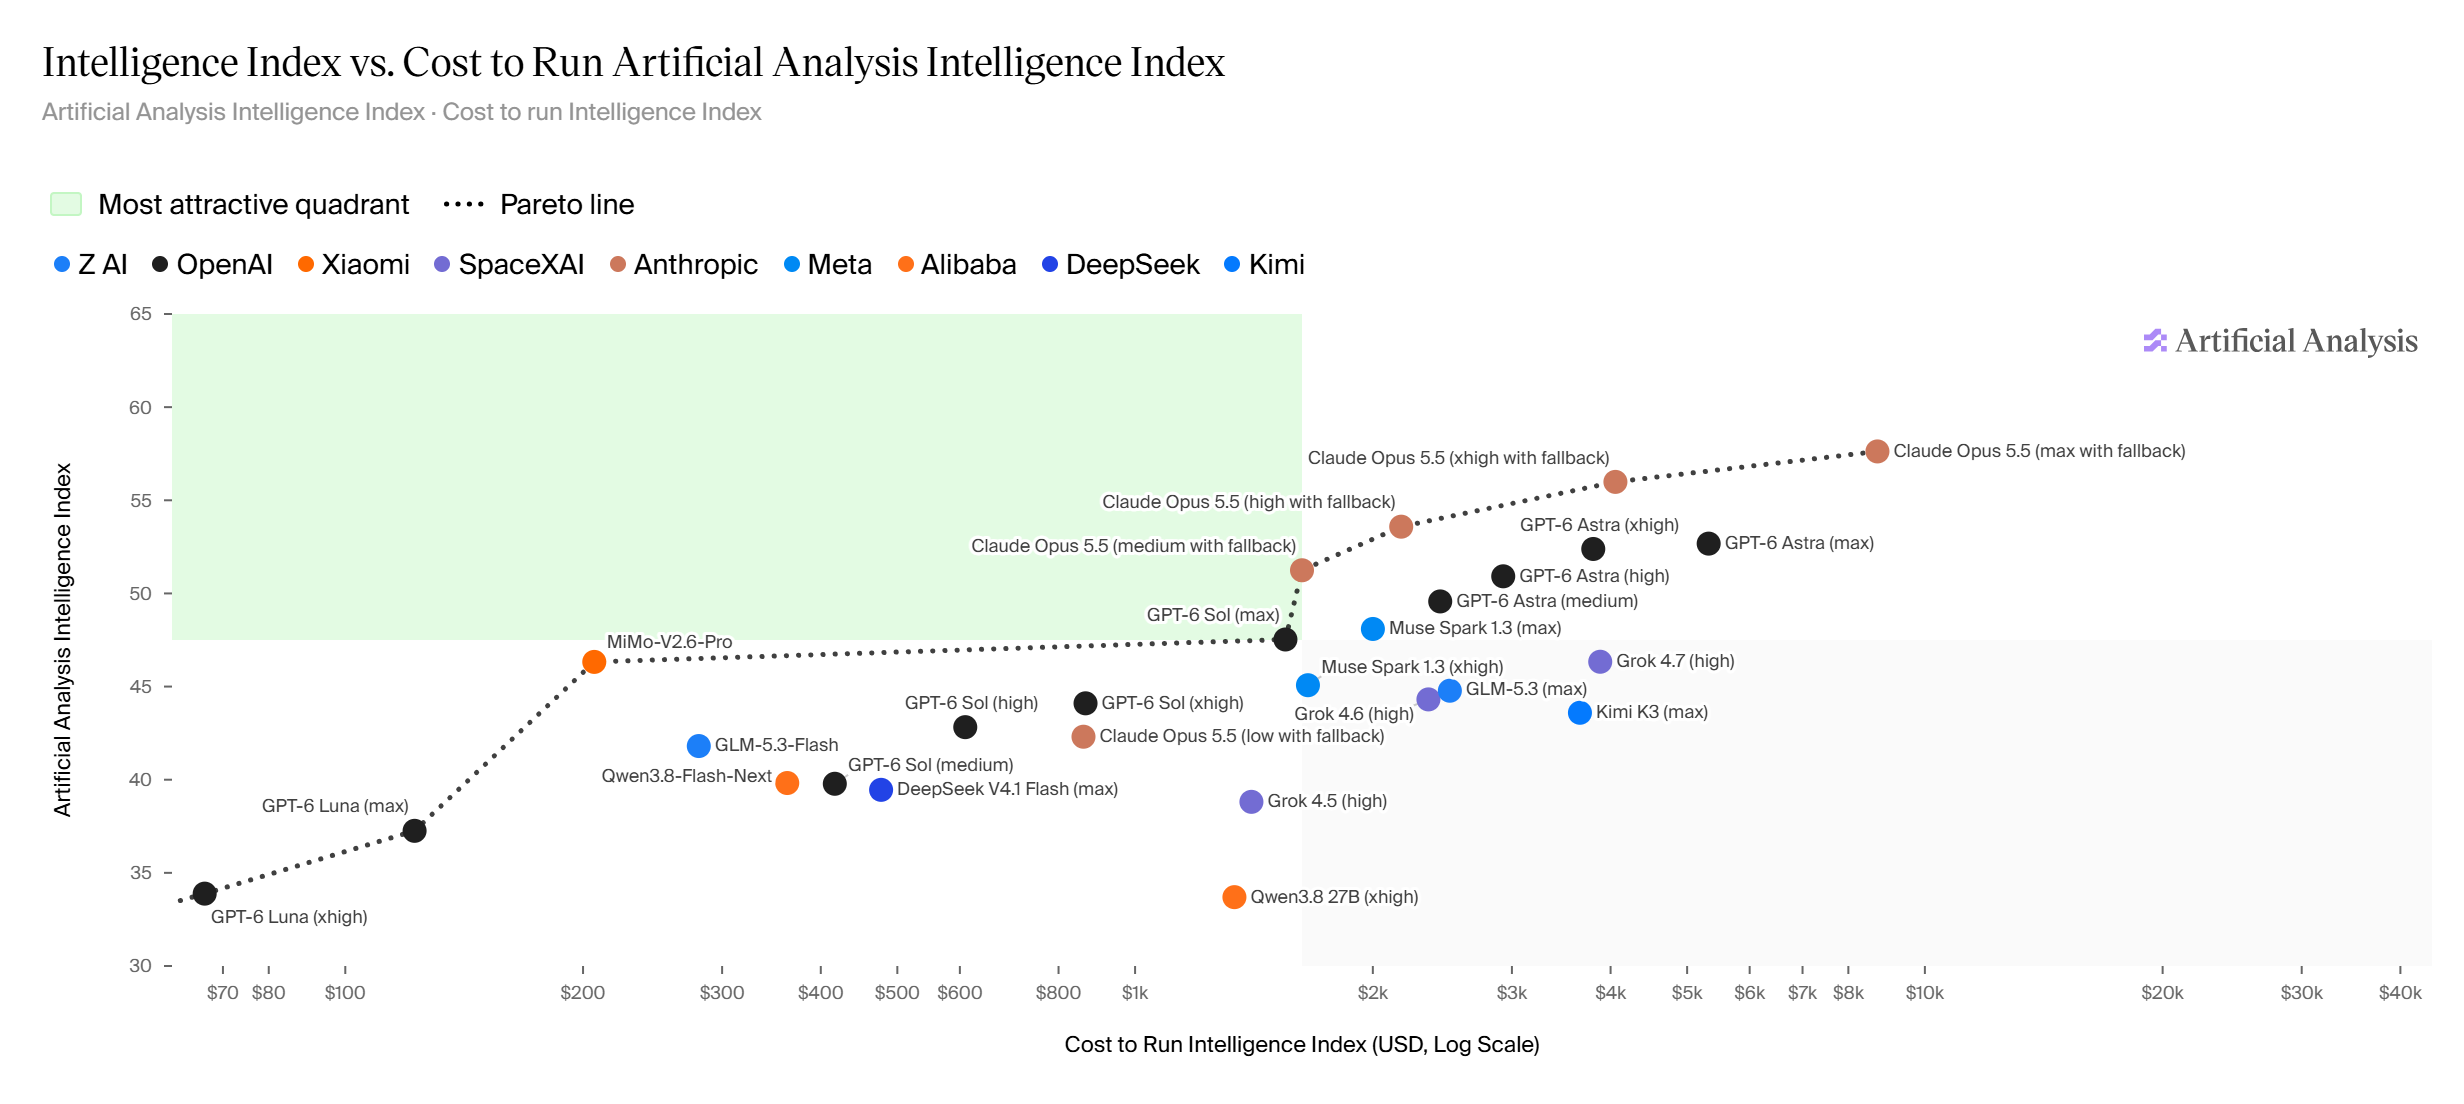
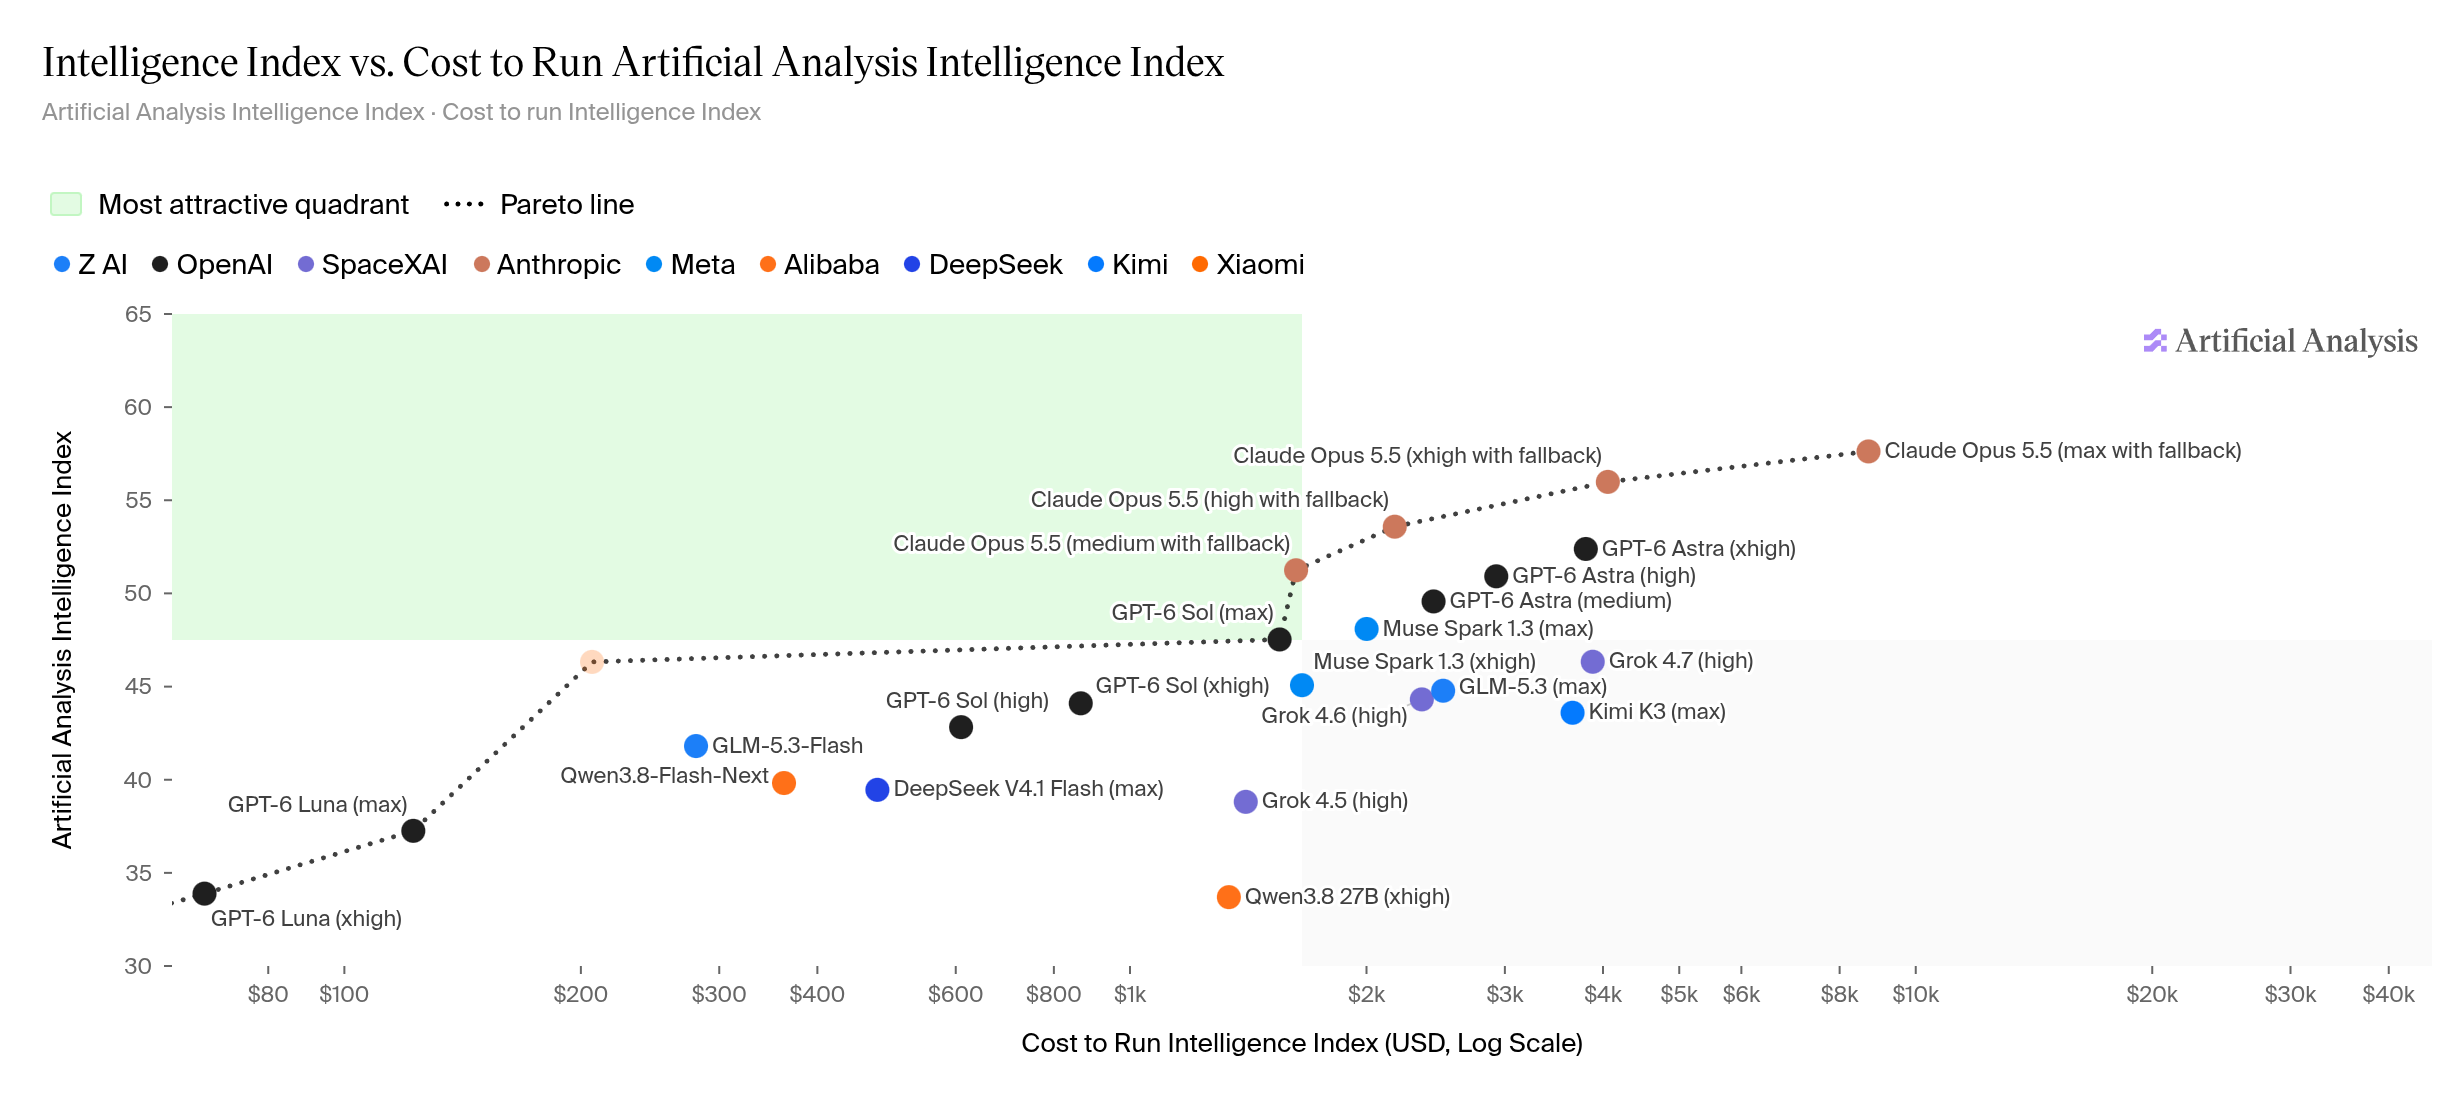
chore: updated README file and opencode presets

diff --git a/README.md b/README.md
@@ -315,6 +315,7 @@ This chart may help you identify which models to test. The intelligence axis is 
 The x-axis (cost) is usually more reliable, but again, do your own tests. Note that costs can vary depending on the provider — the same model may be priced differently across API providers, subscriptions, and regions.
 
 ![Intelligence vs Cost (Sep 2026)](Intelligence-vs-Cost-(21-Sep-'26).png)
+[+ Info](https://artificialanalysis.ai/?models=glm-5-3-flash%2Cgpt-6-luna-xhigh%2Cgpt-6-astra-xhigh%2Cgrok-4-7-high%2Cclaude-opus-5-5%2Cgpt-6-sol-high%2Cgpt-6-luna%2Cgrok-4-5%2Cmuse-spark-1-3%2Cqwen3-8-flash-next%2Cqwen3-8-27b%2Cgpt-6-sol%2Cgrok-4-6%2Cglm-5-3%2Cmuse-spark-1-3-xhigh%2Cgpt-6-sol-xhigh%2Cdeepseek-v4-1-flash%2Cclaude-opus-5-5-xhigh%2Cgpt-6-astra-high%2Cgpt-6-astra-medium%2Cclaude-opus-5-5-medium%2Cclaude-opus-5-5-high%2Ckimi-k3&cost=intelligence-vs-cost-per-task&total-cost=intelligence-vs-total-cost&coding-agents=execution-time&intelligence=agentic-index&intelligence-efficiency=cost-per-task)
 
 Other rankings that can help you choose:
 
